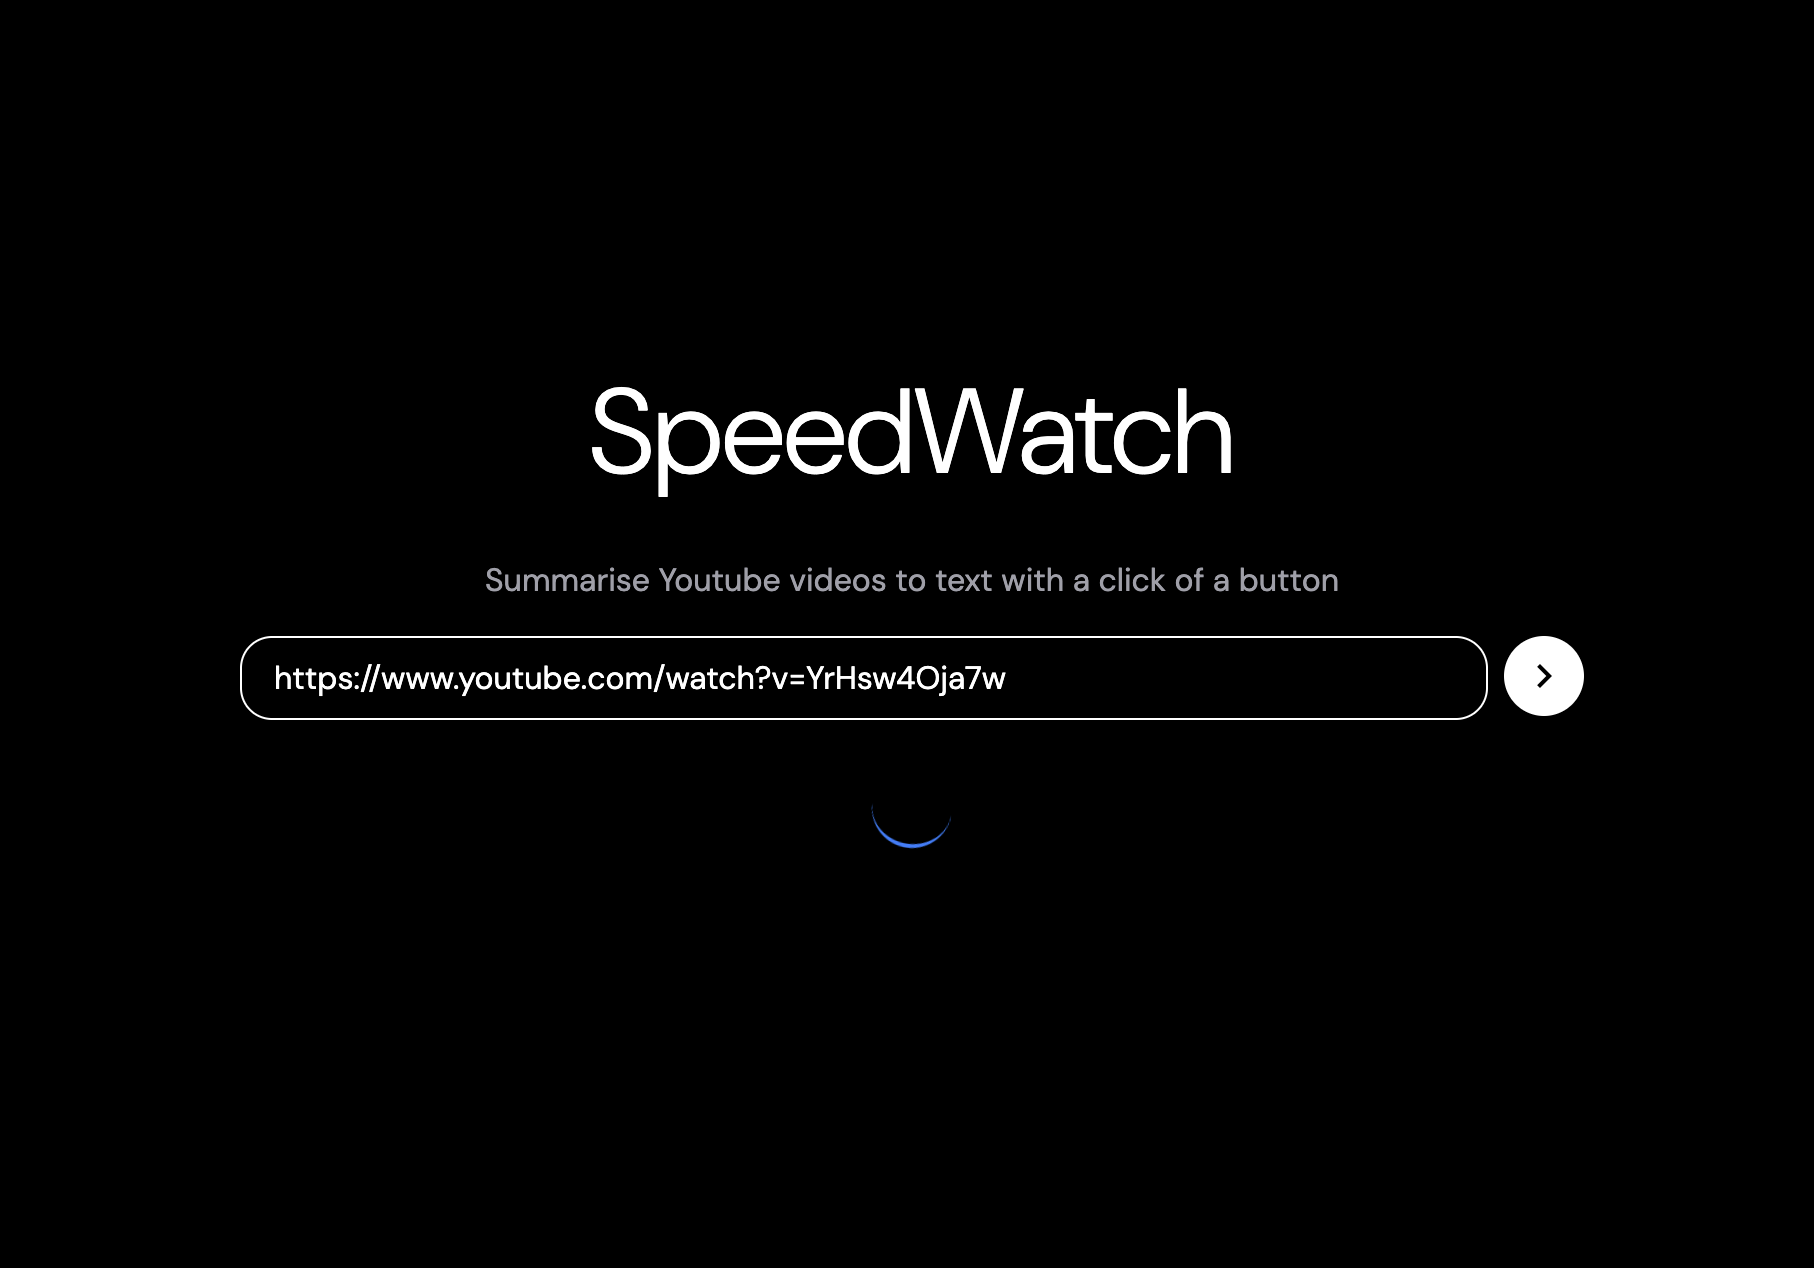
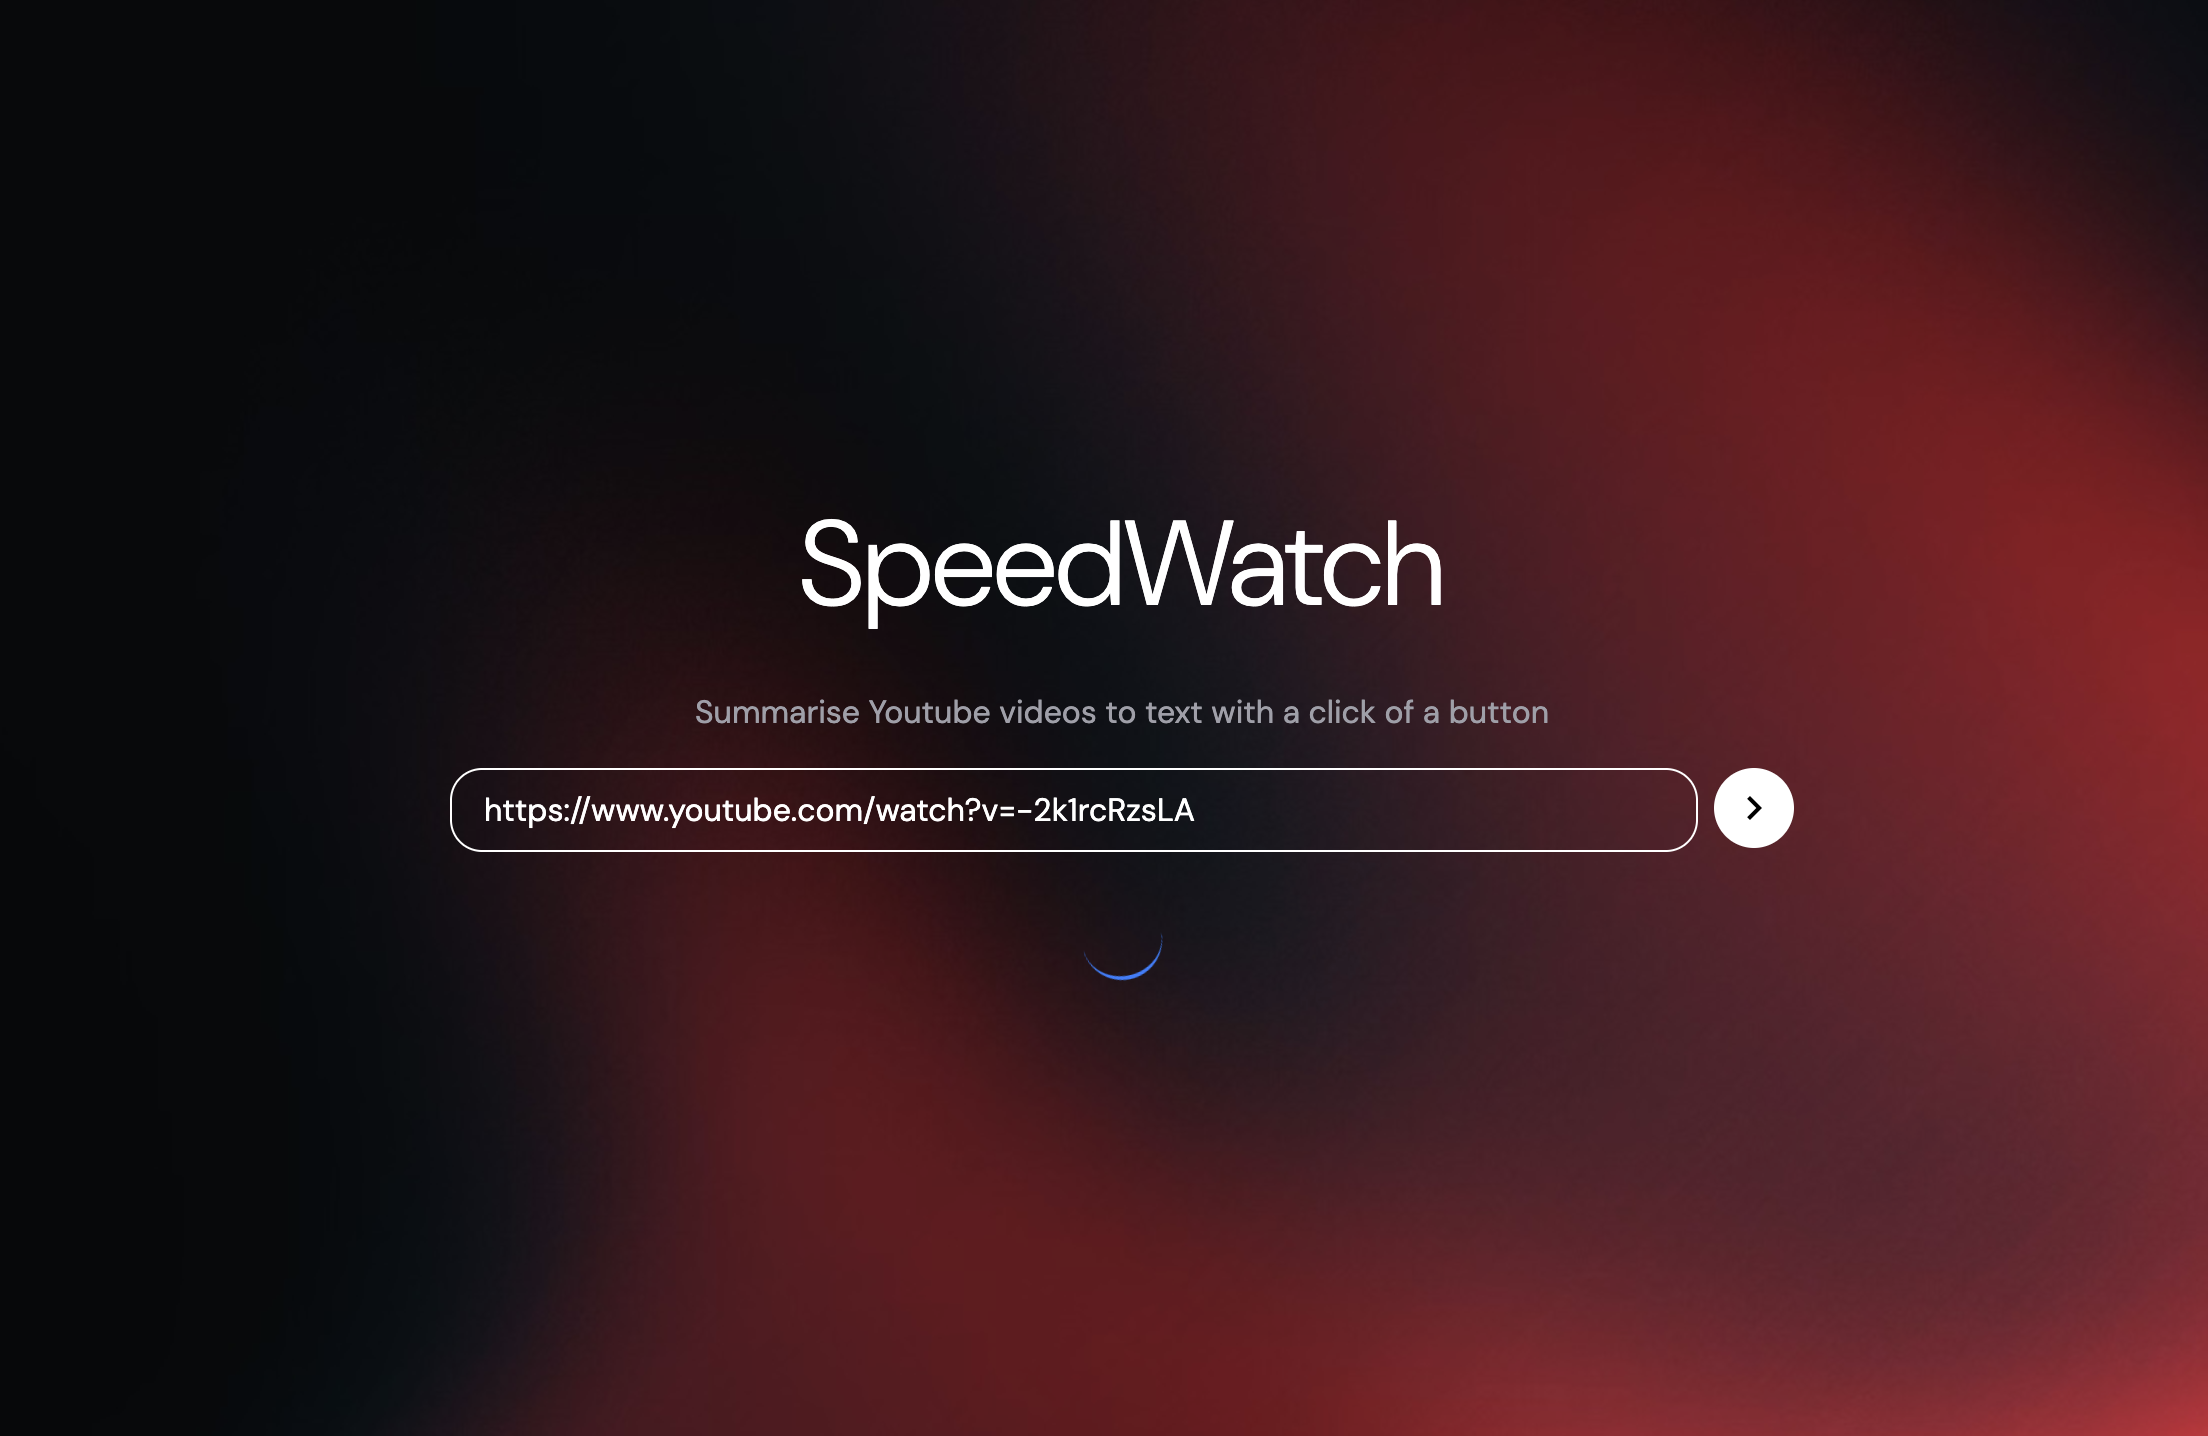
chore: changed to groq api

diff --git a/src/app/app.component.ts b/src/app/app.component.ts
@@ -9,7 +9,7 @@ import { MatIconModule } from '@angular/material/icon';
   standalone: true,
   imports: [FormsModule, CommonModule, MatIconModule],
   template: ` <div
-    class="dm-sans-font flex min-h-screen flex-col items-center justify-center bg-black p-6"
+    class="dm-sans-font flex min-h-screen flex-col items-center justify-center bg-black bg-[url(/red_distortion_3.jpg)] p-6"
   >
     <h1 class="mb-4 text-center text-6xl font-light text-white">SpeedWatch</h1>
     <span class="p-4 text-zinc-400"

diff --git a/backend/main.py b/backend/main.py
@@ -4,6 +4,7 @@ from youtube_transcript_api import YouTubeTranscriptApi
 from fastapi.middleware.cors import CORSMiddleware
 from openai import OpenAI
 import re
+import os
 
 
 app = FastAPI()
@@ -21,9 +22,14 @@ app.add_middleware(
     allow_headers=["*"],
 )
 
+# client = OpenAI(
+#     base_url = 'http://localhost:11434/v1',
+#     api_key='ollama', # required, but unused
+# )
+
 client = OpenAI(
-    base_url = 'http://localhost:11434/v1',
-    api_key='ollama', # required, but unused
+    base_url = 'https://api.groq.com/openai/v1',
+    api_key=os.getenv("GROQ_API_KEY"), 
 )
 
 class VideoUrl(BaseModel):
@@ -50,7 +56,7 @@ def extract_video_id(url: str):
 
 def summarize(text: str):
     response = client.chat.completions.create(
-        model="llama3.2:latest",
+        model="gemma2-9b-it",
         messages=[
             {"role": "system", "content": "Provide a concise summary of the following text. Focus on the key points and main ideas. Return ONLY the summary."},
             {"role": "user", "content": text},

diff --git a/README.md b/README.md
@@ -1,6 +1,6 @@
 # SpeedWatch
 
-SpeedWatch is a webapp that can be used to summarise youtube videos quickly using LLM APIs, created with Angular and TailwindCSS.
+SpeedWatch is a tool that can be used to summarise youtube videos quickly using LLM APIs, created with Angular and TailwindCSS.
 
 ![](https://github.com/hamsar4j/speed-watch/blob/main/public/ss_main.png)
 
